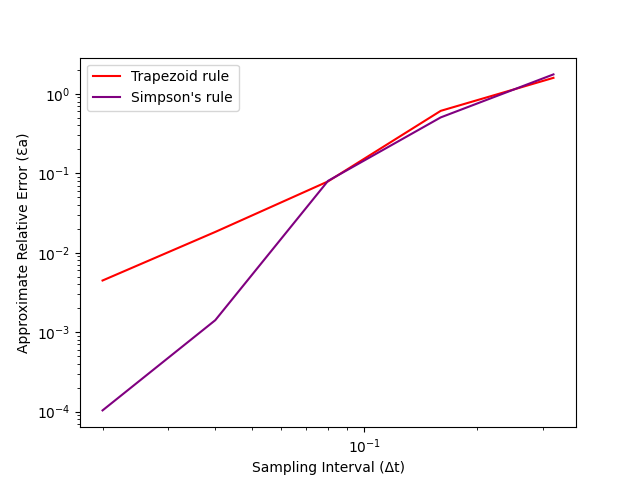
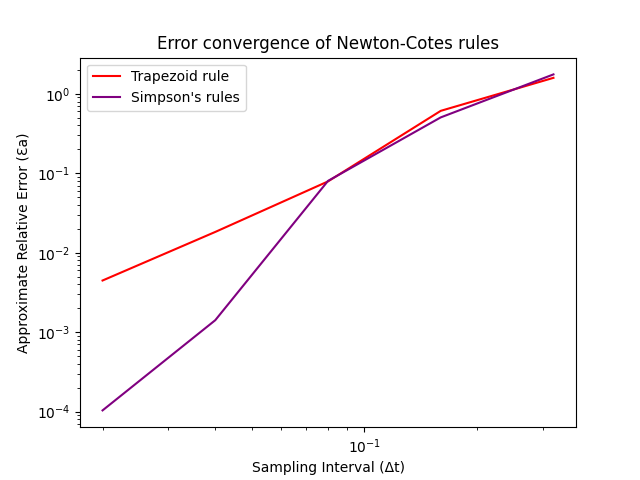
Touch ups on figures

Changed region(s): [[0.25, 0.0625, 0.7812, 0.125], [0.3438, 0.1875, 0.375, 0.2188]]

diff --git a/examples/driver_seismic.py b/examples/driver_seismic.py
@@ -25,8 +25,8 @@ def main():
     
     #Plotting the raw data from s_wave_data.txt
     plt.plot(t, v, 'r-', label = 'S-Wave Arrivals', linewidth = 0.5)
-    plt.vlines(x=[0], ymin=[-0.3], ymax=[0.3],colors='green',ls='--',label = 'Period start time')
-    plt.vlines(x=t[int_limit], ymin=[-0.3], ymax=[0.3], colors='teal', ls='--', label = 'Period end time')
+    plt.vlines(x=[0], ymin=[-0.3], ymax=[0.3],colors='green',ls='-',label = 'Period start time')
+    plt.vlines(x=t[int_limit], ymin=[-0.3], ymax=[0.3], colors='teal', ls='-', label = 'Period end time')
     plt.ylabel('Velocity (v) [mm/s]')
     plt.xlabel('Time (t) [second]')
     plt.title('Collected data for S-Wave Arrivals')
@@ -70,9 +70,10 @@ def main():
 
     #Plot the figure -> curve of the convergence of each integration rule
     plt.loglog(delta_a[1:], eps_trap, label = 'Trapezoid rule', color = 'red')
-    plt.loglog(delta_a[1:], eps_simp, label = "Simpson's rule", color = 'purple')
+    plt.loglog(delta_a[1:], eps_simp, label = "Simpson's rules", color = 'purple')
     plt.ylabel("Approximate Relative Error (Ɛa)")
     plt.xlabel("Sampling Interval (Δt)")
+    plt.title("Error convergence of Newton-Cotes rules")
     plt.legend()
     plt.savefig("figures/trap_simp_convergence.png")
     plt.close("all")

diff --git a/src/goph420_lab01/integration.py b/src/goph420_lab01/integration.py
@@ -55,7 +55,7 @@ def integrate_newton(x,f,alg = "trap"):
     #Simpson's rules
     elif alg == "simp":
         #If the number of intervals is odd -> all 1/3 rule
-        if N % 2:
+        if N % 2 != 0:
             #np.sum(start(including):stop(excluding):every_#points)
             integral = ((x[1] - x[0]) / 3) * (f[0] + 4 * np.sum(f[1 : -1 : 2]) + 2 * np.sum(f[2 : -1 : 2]) + f[-1])
         
